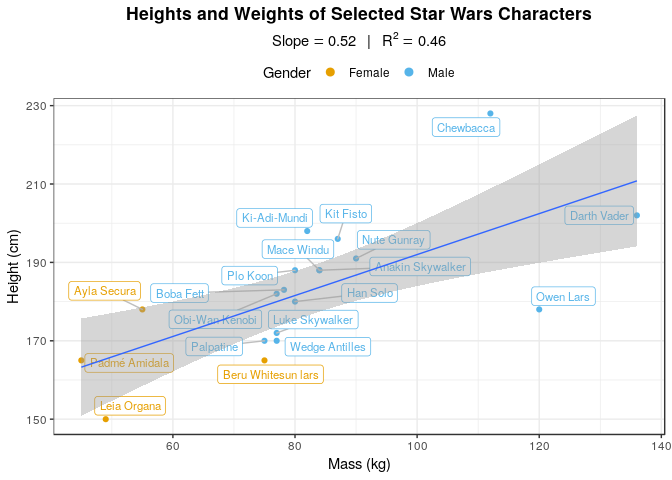
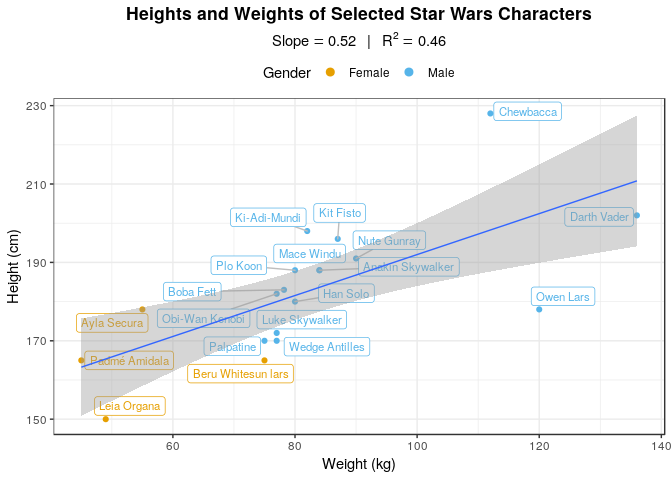
distribution-plots

diff --git a/source/Chart_Collection.md b/source/Chart_Collection.md
@@ -10,15 +10,19 @@ Jesse Cambon
 -   [Chart Types](#chart-types)
     -   [Distribution](#distribution)
         -   [Histogram](#histogram)
+        -   [Population Pyramid](#population-pyramid)
         -   [Boxplot](#boxplot)
+        -   [Dotplot](#dotplot)
+        -   [Violin](#violin)
     -   [Ranking](#ranking)
         -   [Lollipop](#lollipop)
         -   [Bar](#bar)
     -   [Correlation](#correlation)
         -   [Scatterplot](#scatterplot)
-    -   [Change](#change)
+    -   [Evolution](#evolution)
         -   [Line](#line)
         -   [Stacked Area](#stacked-area)
+        -   [Ridgeplot](#ridgeplot)
     -   [Composition](#composition)
         -   [Treemap](#treemap)
         -   [Waffle](#waffle)
@@ -46,14 +50,24 @@ Setup
 ``` r
 # Load libraries - you will need to install these with install.packages('packagename')
 # if you do not have them installed
-library(tidyverse)
-library(ggrepel) # loads ggplot2 as well
-library(treemapify) # ggplot treemap
-library(treemap)
+
+# Need to load this package first to prevent it
+# from masking the 'select' command in dplyr (tidyverse)
+library(PASWR) #titanic3 dataset (for age-sex population pyramid)
+
+## General:
+library(tidyverse) # dplyr, data manipulation
 library(formattable) # percent format
 library(wesanderson) # Color Palettes from Wes Anderson Movies
+
+## For specific plots:
 library(waffle) # waffle charts, make sure to install the github version with devtools::install_github("hrbrmstr/waffle")
 library(R.utils) # capitalize function
+library(ggridges) # ridge plots
+library(ggrepel) # text labels
+library(treemapify) # ggplot treemap
+library(treemap) 
+library(viridis) # colors
 
 # Set default ggplot theme
 theme_set(theme_bw()+
@@ -193,11 +207,48 @@ guides(fill = guide_legend(title='Gender'))
 
 ![](Chart_Collection_files/figure-markdown_github/histogram-1.png)
 
+### Population Pyramid
+
+``` r
+## Transform titanic data with age into format for population pyramid
+titanic_age_sex <- titanic3 %>% as_tibble() %>%
+  filter(!is.na(age)) %>%
+  select(sex,age) %>%
+  mutate(age_cat=cut(age, breaks=c(0,10,20,30,40,50,60,80),
+    labels=c('0-10','11-20','21-30','31-40','41-50','51-60','61-80')
+  )) %>%
+  count(sex,age_cat) %>%
+  # invert counts for pyramid
+  # need as.numeric() since introducing negative values means we need
+  # to use the double format (numeric) instead of integer
+  mutate(n=case_when(sex=='female' ~ -1*n, TRUE ~ as.numeric(n)))
+
+
+ggplot(data=titanic_age_sex %>% mutate(sex=capitalize(sex)), aes(x = age_cat, y = n, fill = sex)) + 
+geom_bar(stat='identity',color='black',size=0.25) +  
+  scale_y_continuous(limits=c(-240,240),
+    breaks = seq(-240, 240, 80), 
+                     labels = as.character(c(seq(240,0,-80), seq(80,240,80)))) + 
+  coord_flip() + 
+  scale_fill_manual(values = wes_palette('Darjeeling2')[c(2,3)]) +
+  theme(legend.position='top',panel.grid.minor.x=element_blank()) +
+  labs(title='Passengers on the Titanic') +
+  xlab('Age') +
+  ylab('Passengers') +
+  guides(fill = guide_legend(title='')) # remove legend title
+```
+
+![](Chart_Collection_files/figure-markdown_github/pyramid-1.png)
+
 ### Boxplot
+
+A tukey-style boxplot.
+
+Note: "The upper whisker extends from the \[ upper hinge (ie. 75 percentile) \] to the largest value no further than 1.5 \* IQR from the \[upper hinge\] (where IQR is the inter-quartile range, or distance between the first and third quartiles). The lower whisker extends from the \[lower hinge (ie. 25 percentile)\] to the smallest value at most 1.5 \* IQR of the \[lower hinge\]. Data beyond the end of the whiskers are called "outlying" points and are plotted individually." <https://ggplot2.tidyverse.org/reference/geom_boxplot.html>
 
 ``` r
  ggplot(eu_stock, aes(x=Index, y=Price,fill=Index)) + 
-  geom_boxplot(outlier.shape = NA) + # outliers removed
+  geom_boxplot(outlier.shape = NA) + # outliers hidden
   theme(legend.position='none',panel.grid.major.x=element_blank()) +
   ylab('Value') +
   labs(title='Boxplot of EU Stock Indexes') +
@@ -209,6 +260,38 @@ guides(fill = guide_legend(title='Gender'))
 ```
 
 ![](Chart_Collection_files/figure-markdown_github/boxplot-1.png)
+
+### Dotplot
+
+``` r
+ggplot(starwars_jac %>% filter(gender %in% c('male','female')), aes(x = factor(gender), y = height,fill=gender)) +
+  geom_dotplot(binaxis = "y", stackdir = "center") +
+  xlab('Gender') +
+  ylab('Height (cm)') +
+  theme(legend.position='none') +
+  labs(title='Height Distribution of Starwars Characters')
+```
+
+    ## `stat_bindot()` using `bins = 30`. Pick better value with `binwidth`.
+
+    ## Warning: Removed 5 rows containing non-finite values (stat_bindot).
+
+![](Chart_Collection_files/figure-markdown_github/dotplot-1.png)
+
+### Violin
+
+``` r
+ggplot(starwars_jac %>% filter(gender %in% c('male','female')), aes(x = factor(gender), y = mass,fill=gender)) +
+  geom_violin() +
+  xlab('Gender') +
+  ylab('Weight (kg)') +
+  theme(legend.position='none') +
+  labs(title='Weight Distribution of Starwars Characters')
+```
+
+    ## Warning: Removed 27 rows containing non-finite values (stat_ydensity).
+
+![](Chart_Collection_files/figure-markdown_github/violin-1.png)
 
 Ranking
 -------
@@ -339,15 +422,15 @@ geom_smooth(method="lm",show.legend=F,size=0.5) + # Regression line
 scale_color_manual(values=c(cbPalette[2:5])) +
 labs(title='Heights and Weights of Selected Star Wars Characters',
      subtitle = bquote(Slope == .(round(coeff,2)) ~ ' | ' ~ R^2  ==  .(round(r_square,2)) )) +
-xlab('Mass (kg)') +
+xlab('Weight (kg)') +
 ylab('Height (cm)') +
 guides(color=guide_legend(title='Gender',override.aes = list(size=2.5)))
 ```
 
 ![](Chart_Collection_files/figure-markdown_github/scatter-1.png)
 
-Change
-------
+Evolution
+---------
 
 ### Line
 
@@ -413,6 +496,25 @@ ylab('')
 ```
 
 ![](Chart_Collection_files/figure-markdown_github/stackedarea-1.png)
+
+### Ridgeplot
+
+<https://cran.r-project.org/web/packages/ggridges/vignettes/introduction.html>
+
+``` r
+ggplot(lincoln_weather , aes(x = `Mean Wind Speed[MPH]`, y = `Month`, fill = ..x..)) +
+  geom_density_ridges_gradient(scale =2, rel_min_height = 0.01) +
+  scale_y_discrete(expand=c(0,0,0.2,0)) + # add top margin
+  scale_x_continuous(expand=c(0,0)) +
+  theme(legend.position='none') +
+  scale_fill_viridis(option='C',direction=-1) +
+  labs(title = 'Daily Mean Wind Speeds in Lincoln, NE in 2016') +
+  xlab('Mean Wind Speed (MPH)')
+```
+
+    ## Picking joint bandwidth of 1.32
+
+![](Chart_Collection_files/figure-markdown_github/ridge-1.png)
 
 Composition
 -----------
